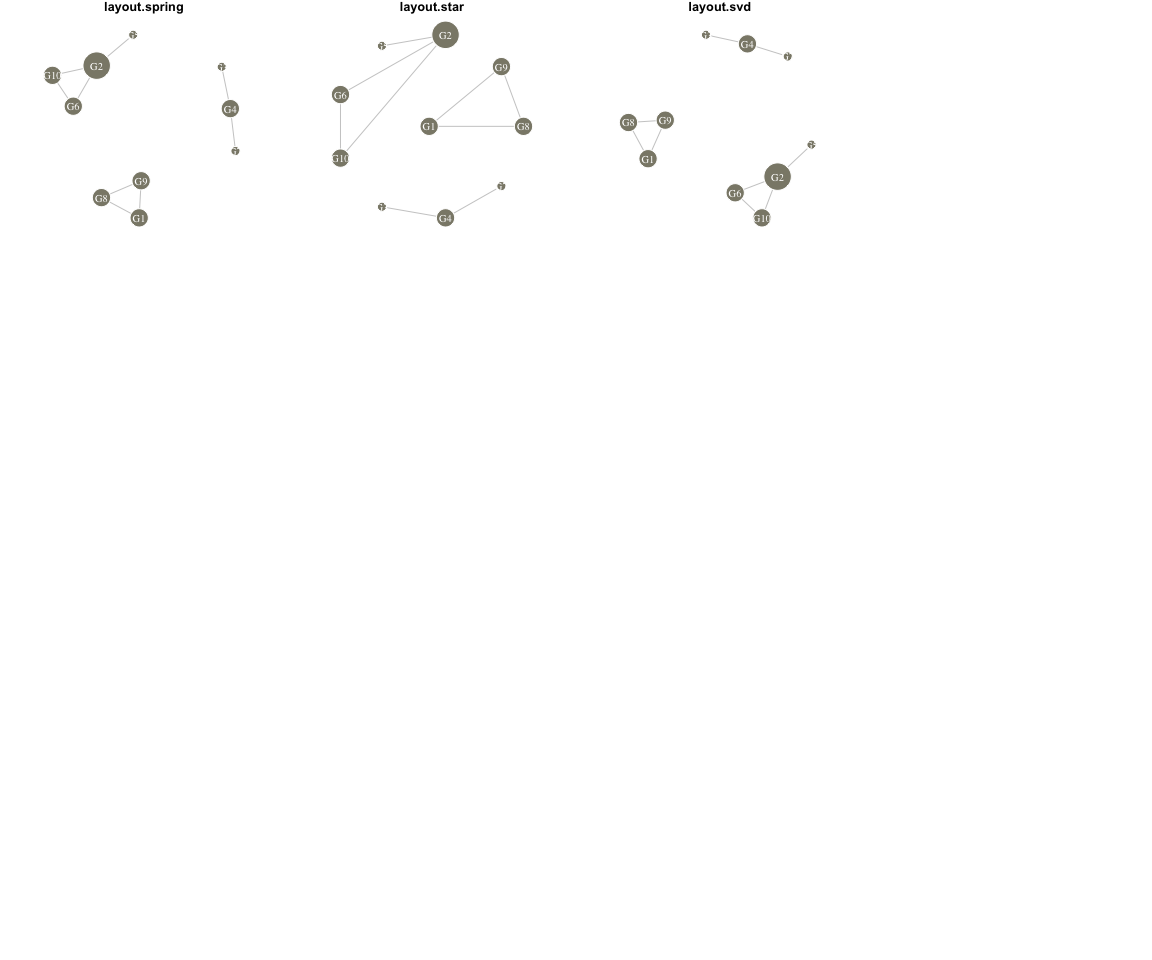
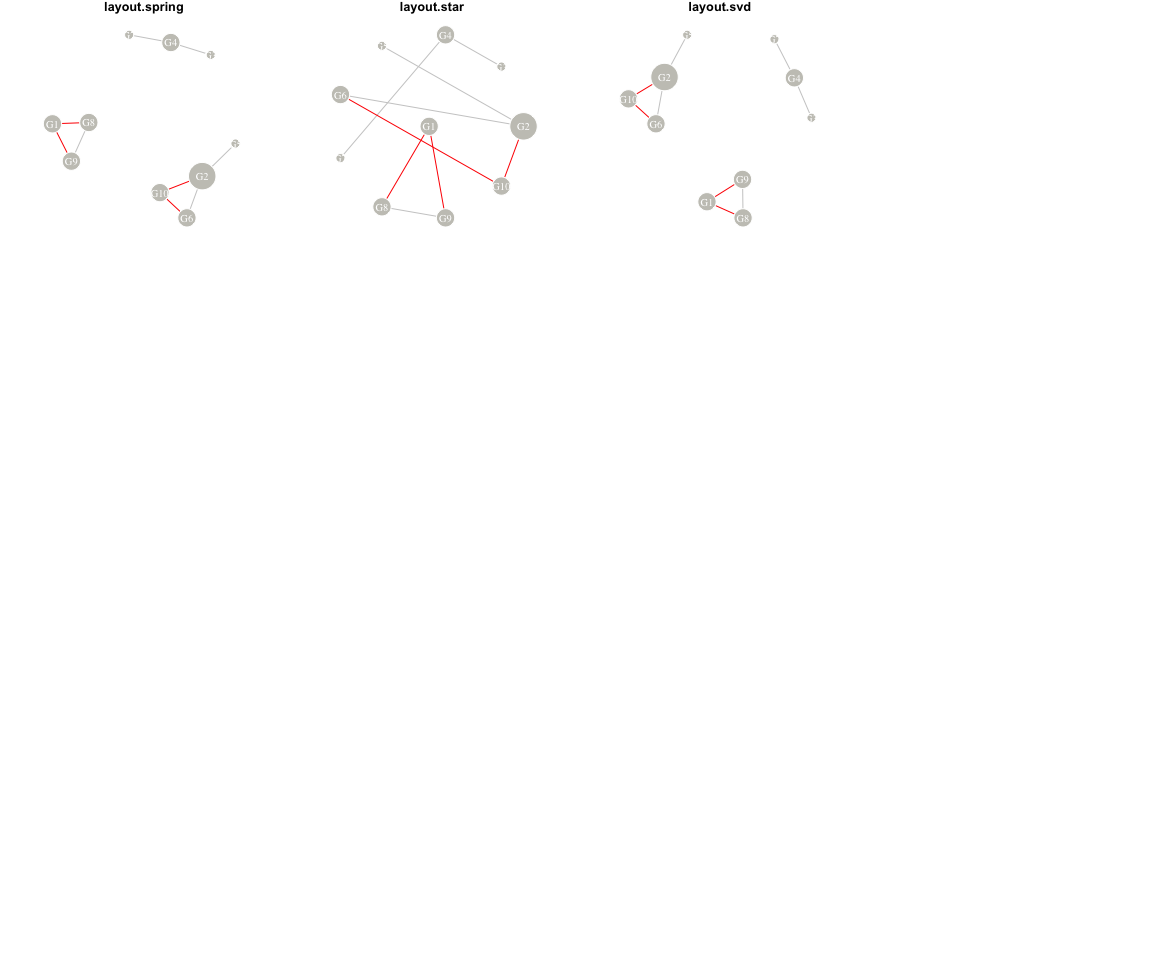
171006

diff --git a/README.md b/README.md
@@ -18,7 +18,7 @@ ls("package:cornet")
 ```
 
     ## [1] "cluster_dat"  "cluster_mat"  "cluster_mine" "corgraph"    
-    ## [5] "corheat"      "igplot"       "matoedge"
+    ## [5] "corheat"      "gethub"       "igplot"       "matoedge"
 
 ### data
 
@@ -132,17 +132,17 @@ res <- corgraph(mat = cormat)
 (g <- res$undir.graph)
 ```
 
-    ## IGRAPH 1752f5c UN-- 120 1605 -- 
-    ## + attr: name (v/c)
-    ## + edges from 1752f5c (vertex names):
+    ## IGRAPH 259a4d8 UN-- 239 1605 -- 
+    ## + attr: name (v/c), color (e/c)
+    ## + edges from 259a4d8 (vertex names):
     ##  [1] gene158--gene838 gene765--gene118 gene765--gene871 gene765--gene189
-    ##  [5] gene765--gene818 gene838--gene118 gene686--gene770 gene910--gene271
-    ##  [9] gene910--gene416 gene910--gene278 gene910--gene254 gene271--gene510
-    ## [13] gene416--gene510 gene510--gene281 gene271--gene416 gene271--gene278
+    ##  [5] gene765--gene818 gene118--gene838 gene686--gene770 gene910--gene271
+    ##  [9] gene910--gene416 gene910--gene278 gene910--gene254 gene510--gene271
+    ## [13] gene510--gene416 gene510--gene281 gene271--gene416 gene271--gene278
     ## [17] gene271--gene964 gene271--gene281 gene271--gene971 gene416--gene278
     ## [21] gene416--gene281 gene563--gene270 gene563--gene246 gene563--gene920
-    ## [25] gene278--gene563 gene563--gene67  gene563--gene371 gene190--gene220
-    ## [29] gene270--gene190 gene220--gene709 gene220--gene977 gene270--gene220
+    ## [25] gene563--gene278 gene563--gene67  gene563--gene371 gene190--gene220
+    ## [29] gene190--gene270 gene220--gene709 gene220--gene977 gene220--gene270
     ## + ... omitted several edges
 
 ``` r
@@ -171,55 +171,68 @@ head(res$res.ks.text)
     ## 5   0.34 0.8865022    0
     ## 6   0.35 0.8853600    0
 
-### igplot
-
-igraphオブジェクトをプロットする。たくさんあるパラメータの表記をできるだけ省略したいので、よく使うオプションは初期値を指定してある。大雑把に視覚化したい時に使う。
-
-#### sample data
-
 ``` r
-# sample data
-dat <- data.frame(
- S1 =c(43.26, 166.6, 12.53, 28.77, 114.7, 119.1, 118.9, 3.76, 32.73, 17.46),
- S2=c(40.89, 41.87, 39.55, 191.92, 79.7, 80.57, 156.69, 2.48, 11.99, 56.11),
- S3=c(5.05, 136.65, 42.09, 236.56, 99.76, 114.59, 186.95, 136.78, 118.8, 21.41)
- )
-rownames(dat) <- paste0("G", 1:10)
-
-# correlation matrix
-cormat <- round(cor(t(dat)),2)
+# graphオブジェクトのみ作成
+cl_g <- lapply(cluster_dat, function(x)corgraph(cor(x))[[1]])
 ```
 
-#### 閾値グラフ
+    ## [1] "thresh:0.93  p:0"
+    ## [1] "thresh:0.89  p:7.01882996168024e-13"
+    ## [1] "thresh:0.7  p:5.29423700434961e-08"
+    ## [1] "thresh:0.75  p:0.00679881495728263"
+
+### igplot
+
+igraphオブジェクトをプロットする。たくさんあるパラメータの表記をできるだけ省略したいので、よく使うオプションは初期値を指定してある。大雑把に視覚化したい時に使う。 \#\#\#\# サンプルデータ
 
 ``` r
-# threshold graph
-res <- cornet::corgraph(mat=cormat)
+dat <- data.frame(
+ S1 = c(43.26, 166.6, 12.53, 28.77, 114.7, 119.1, 118.9, 3.76, 32.73, 17.46),
+ S2 = c(40.89, 41.87, 39.55, 191.92, 79.7, 80.57, 156.69, 2.48, 11.99, 56.11),
+ S3 = c(5.05, 136.65, 42.09, 236.56, 99.76, 114.59, 186.95, 136.78, 118.8, 21.41)
+ )
+rownames(dat) <- paste0("G", 1:10)
+```
+
+#### グラフ作成と描画
+
+-   `corgraph`を使って閾値を元にグラフ作成する場合と`matoedge`を使って完全グラフを作る場合
+
+``` r
+# グラフ作成
+cormat <- round(cor(t(dat)),2)
+g1 <- corgraph(cormat)[[1]]
 ```
 
     ## [1] "thresh:0.95  p:0.916883357943937"
 
 ``` r
-g1 <- res[[1]]
-cornet::igplot(ig = g1, v.s = 15)
+g2 <- cornet::matoedge(cormat)
+
+# 閾値グラフ
+par(mfrow=c(1,2))
+igplot(g1, v.s = igraph::degree(g1)*10)
+
+# 完全グラフ
+ewid <- abs(igraph::E(g2)$weight)
+ecol <-  ifelse(igraph::E(g2)$weight < 0 , "steelblue3", "grey80")
+igplot(ig = g2, lay=igraph::layout.circle, v.s = 15, e.c = ecol, e.w = ewid*4)
 ```
 
 ![](README_files/figure-markdown_github-ascii_identifiers/unnamed-chunk-8-1.png)
 
-##### 完全グラフ
+#### corgraphの結果を描画する場合
 
 ``` r
-g2 <- cornet::matoedge(cormat)
-ewid <- abs(igraph::E(g2)$weight)
-ecol <-  ifelse(igraph::E(g2)$weight < 0 , "steelblue3", "grey80")
-cornet::igplot(ig = g2, lay=igraph::layout.circle, v.s = 15, e.c = ecol, e.w = ewid*4)
+par(mfrow=c(1,4))
+invisible(lapply(cl_g, function(x)igplot(ig = x, v.s = 7, v.l = NA)))
 ```
 
 ![](README_files/figure-markdown_github-ascii_identifiers/unnamed-chunk-9-1.png)
 
-#### all layout test
+#### 色々なレイアウト関数を試す
 
--   layoutの関数を取得して全てplot
+-   igraphのlayoutの関数を取得して全てplot
 -   データの種類とlayout関数の組み合わせによってはerrorになる
 
 ``` r
@@ -237,6 +250,35 @@ cornet::igplot(ig = g1, lay = "all", v.s = igraph::degree(g1)*10)
     ## [1] "Error in layout layout.sugiyama"
 
 ![](README_files/figure-markdown_github-ascii_identifiers/unnamed-chunk-10-2.png)
+
+### gethub
+
+-   ノードごとに中心性解析の結果を調べる
+
+``` r
+res.hub <- gethub(g = cl_g[[2]], com_fun = "cluster_louvain")
+```
+
+![](README_files/figure-markdown_github-ascii_identifiers/unnamed-chunk-11-1.png)
+
+``` r
+head(res.hub)
+```
+
+    ##            node  between degree   ndegree within_module_degree
+    ## gene847 gene847 353.1202     19 0.1759259            0.9169092
+    ## gene897 gene897 341.3252     13 0.1203704            2.5751852
+    ## gene829 gene829 313.1011     34 0.3148148            1.7192048
+    ## gene483 gene483 242.2719     22 0.2037037            0.9169092
+    ## gene558 gene558 219.9055     30 0.2777778            1.6972270
+    ## gene466 gene466 212.1991     32 0.2962963            1.7192048
+    ##         participation_coefficient                 role
+    ## gene847                 0.3878116 R2: Peripheral nodes
+    ## gene897                 0.3550296   R6: Connector hubs
+    ## gene829                 0.6159170 R2: Peripheral nodes
+    ## gene483                 0.4917355 R2: Peripheral nodes
+    ## gene558                 0.6066667 R2: Peripheral nodes
+    ## gene466                 0.5878906 R2: Peripheral nodes
 
 ### cluster\_mine
 
